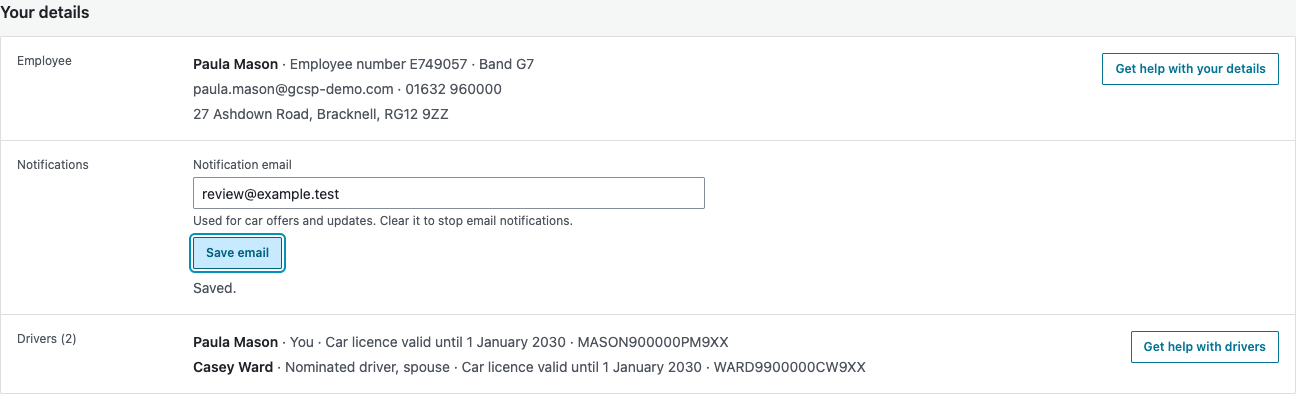
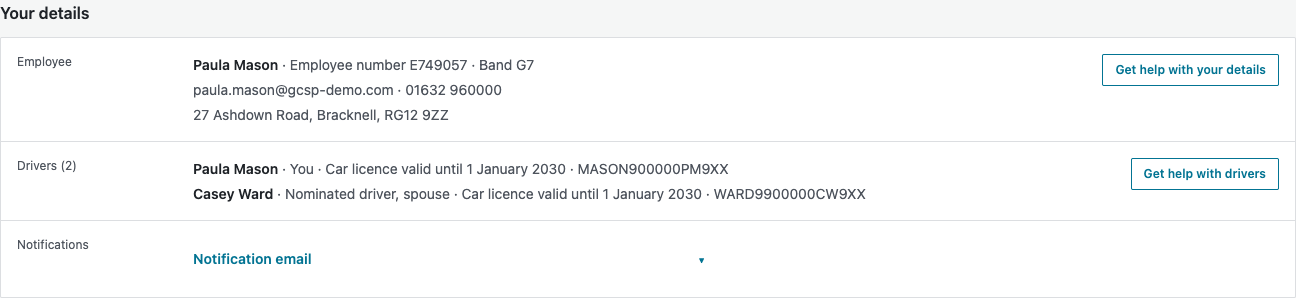
Collapse notification email settings at end of account details

diff --git a/blocks/gcsp/account/gcsp-account.js b/blocks/gcsp/account/gcsp-account.js
@@ -175,7 +175,6 @@ function yourDetails(model, controls) {
       override && `Allowance override: ${override}${overrideEnd ? ` (ends ${overrideEnd})` : ''}`]
       .filter(supplied).map((value) => line(muted(value)))];
   rows.append(item('Employee', employee, controls.supportButton('hr-support', 'Get help with your details')));
-  if (controls.notificationEmail) rows.append(item('Notifications', [controls.notificationEmail()]));
   const drivers = model.drivers.map((driver) => {
     const licence = driver.licence ?? {};
     const valid = (name, label) => {
@@ -193,6 +192,7 @@ function yourDetails(model, controls) {
   }).flat();
   rows.append(item(`Drivers (${model.drivers.length})`, drivers.length ? drivers : [el('p', 'gcsp-note', 'No driver or licence details supplied.')],
     controls.supportButton('driver-support', 'Get help with drivers')));
+  if (controls.notificationEmail) rows.append(item('Notifications', [controls.notificationEmail()]));
   section.append(title, rows);
   return section;
 }
@@ -466,8 +466,10 @@ export function mountAccount(root, { adapter = createAccountHttpAdapter(), brand
     ...(!adapter.readOnly && typeof adapter.readNotificationEmail === 'function' && typeof adapter.saveNotificationEmail === 'function' ? {
       notificationEmail: () => {
         if (!emailRegion) {
-          emailRegion = el('div');
-          mountNotificationEmail(emailRegion, { adapter, signal: abort.signal });
+          emailRegion = el('details', 'gcsp-details gcsp-account-email-settings');
+          const body = el('div');
+          emailRegion.append(el('summary', 'gcsp-details-summary', 'Notification email'), body);
+          mountNotificationEmail(body, { adapter, signal: abort.signal });
         }
         return emailRegion;
       },

diff --git a/blocks/gcsp/account/gcsp-account.css b/blocks/gcsp/account/gcsp-account.css
@@ -1,7 +1,7 @@
 @import "../employee/gcsp-employee.css"; @import "../kit/buddy-status.css"; @import "../kit/buddy-tile.css"; @import "../kit/activity-timeline.css"; @import "../activity/activity-offer.css";
 @import "../order-progress/gcsp-order-progress.css"; /* Account composition uses the employee feature and shared kit; the page layout below is scoped to the account body. */
 @import "../kit/gcsp-kit.css"; @import "../kit/side-drawer.css"; @import "../kit/category-preferences.css"; @import "../kit/understanding-meter.css"; @import "../kit/same-again.css"; @import "../kit/star-rating.css"; @import "../kit/help-tip.css"; @import "../kit/form-controls.css";
-gcsp-account { display: block; } .gcsp .gcsp-notification-email { display: grid; gap: var(--gcsp-space-2); max-width: 32rem; } .gcsp .gcsp-notification-email-actions { display: flex; flex-wrap: wrap; gap: var(--gcsp-space-2); }
+gcsp-account { display: block; } .gcsp .gcsp-notification-email { display: grid; gap: var(--gcsp-space-2); max-width: 32rem; } .gcsp .gcsp-notification-email-actions { display: flex; flex-wrap: wrap; gap: var(--gcsp-space-2); } .gcsp .gcsp-account-email-settings { border: 0; padding: 0; max-width: 32rem; }
 .gcsp .gcsp-rep.gcsp-account-body { width: 100%; max-width: 1680px; margin-inline: auto; padding-top: var(--gcsp-space-6); min-width: 0; overflow-wrap: anywhere; }
 .gcsp .gcsp-account-body .gcsp-summary { scroll-margin-top: var(--gcsp-space-4); }
 .gcsp .gcsp-account-body :is(dl, dd:not(.vm-fact-value)) { margin: 0; }

diff --git a/server/test/gcsp-notification-email.test.js b/server/test/gcsp-notification-email.test.js
@@ -161,6 +161,10 @@ test('Your details mounts the email control once and preserves unsaved input acr
   const stop = mountAccount(root, { adapter }); await tick(); await tick();
   const input = root.querySelector('input[type=email]'); assert.ok(input); input.value = 'unsaved@example.test';
   assert.match(input.closest('section').textContent, /Your details/);
+  const disclosure = input.closest('details'); assert.ok(disclosure); assert.equal(disclosure.open, false);
+  assert.equal(disclosure.closest('.gcsp-account-row'), root.querySelector('.gcsp-account-rows').lastElementChild);
+  disclosure.open = true;
   [...root.querySelectorAll('button')].find((node) => node.textContent === 'Get help with your details').click();
+  assert.equal(input.closest('details'), disclosure); assert.equal(disclosure.open, true);
   assert.equal(root.querySelector('input[type=email]'), input); assert.equal(input.value, 'unsaved@example.test'); assert.equal(reads, 1); stop();
 });

diff --git a/docs/gcsp/employee-delivery-email-2026-11-11.md b/docs/gcsp/employee-delivery-email-2026-11-11.md
@@ -87,3 +87,22 @@ it is not represented as fixed or used to broaden this change.
 The selected scope excludes retail ranking, ML/training, the whole unrelated server suite and live
 provider/inbox verification. The baseline was fast-forwarded to c5a20b12 (documentation changes only)
 before final direct validation. No Jira changes or production employee-address writes were made.
+
+## Quieter notification settings
+
+Gary requested a less prominent setting at the bottom of the table, collapsed by default.
+**Your Cars → Your details** now ends with the Notifications row. Its **Notification email**
+disclosure starts closed and opens the existing email field and Save button. It uses the shared
+native disclosure styling; account redraws preserve an open disclosure and any unsaved address.
+
+Final scoped validation: **10 passed, 0 failed, 0 skipped**, covering the settings regressions,
+last-row placement, default closed state and redraw preservation. Actual account browser checks
+at 1440 and 390 px passed keyboard open/close, invalid-email focus, save and clear, with no
+horizontal overflow or page errors. Both collapsed captures were visually inspected; the linked
+desktop, narrow and checks evidence above now records this presentation.
+
+Local targeted receipt:
+`.claude/test-runs/targeted-20704309f85db9bddfd9d63eed73426d0251fc4e04612a46328a8ad7035f829c-default-1794438106340535000.json`.
+The baseline advanced from dd2ac6a8 to 81c14be9 after validation; the intervening changes only
+updated the unrelated presenter diagnosis document. No backend delivery behavior changed, and
+live Render deployment and inbox delivery remain unverified.
